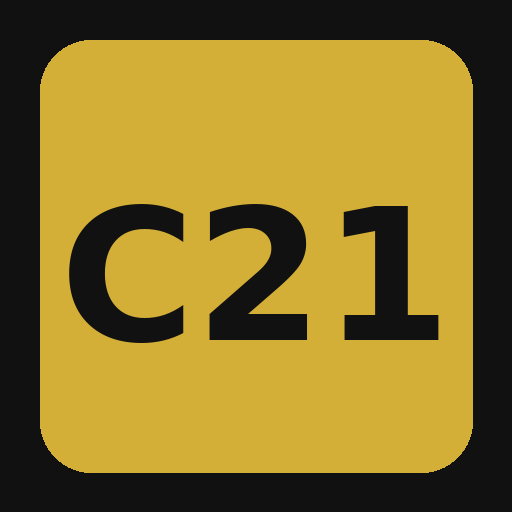
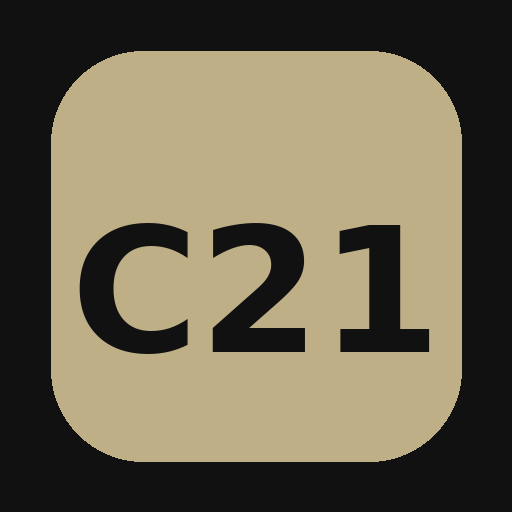
Add files via upload

diff --git a/index.html b/index.html
@@ -5,15 +5,15 @@
   <meta name="viewport" content="width=device-width, initial-scale=1" />
   <title>Fredrik Grill — Century 21 Forever Homes</title>
   <meta name="theme-color" content="#111111" />
-  <link rel="manifest" href="./manifest.webmanifest">
-  <link rel="apple-touch-icon" href="./icon-192.png" />
   <meta name="apple-mobile-web-app-capable" content="yes">
   <meta name="apple-mobile-web-app-status-bar-style" content="black-translucent">
+  <link rel="manifest" href="./manifest.webmanifest">
+  <link rel="apple-touch-icon" href="./apple-touch-icon.png" />
   <style>
     :root {
       --bg: #0e0e0e;
       --card: #1a1a1a;
-      --gold: #d4af37;
+      --gold: #BEAF87;
       --text: #ffffff;
       --muted: #b3b3b3;
     }
@@ -107,6 +107,9 @@
     .footer {
       margin-top: 14px; color: #7d7d7d; font-size: 11px; text-align: center;
     }
+    .share-row {
+      display: grid; grid-template-columns: 1fr 1fr; gap: 8px; margin-top: 8px;
+    }
   </style>
 </head>
 <body>
@@ -131,7 +134,7 @@
       <a class="btn" href="tel:+351925898231">📞 Call +351 925 898 231</a>
       <div class="inline">
         <a class="btn secondary" href="mailto:f.grill@century21.pt">✉ Email</a>
-        <a class="btn secondary" href="https://wa.me/+351925898231">💬 WhatsApp</a>
+        <a class="btn secondary" href="https://wa.me/351925898231">💬 WhatsApp</a>
       </div>
       <a class="btn secondary" href="https://www.google.com/maps/search/?api=1&query=Estrada%20Do%20Farol%2084%2C%208400-505%2C%20Carvoeiro">📍 Estrada Do Farol 84, 8400-505, Carvoeiro</a>
       <a class="btn" href="https://forever-homes.century21.pt" target="_blank" rel="noopener">🌐 Visit Website</a>
@@ -139,9 +142,9 @@
         <a class="btn" href="./fredrik-grill.vcf" download>💾 Save Contact (.vcf)</a>
         <a class="btn" href="./fredrik-card.pdf" download>📄 Download PDF</a>
       </div>
-      <div class="inline">
-        <a class="btn secondary" href="sms:?&body=Fredrik Grill%20—%20Century%2021%20Forever%20Homes%0Ahttps://forever-homes.century21.pt%0A(Open%20my%20digital%20card%20via%20the%20link%20you%20received)">📱 Share via SMS</a>
-        <a class="btn secondary" href="https://api.whatsapp.com/send?text=Fredrik Grill%20—%20Century%2021%20Forever%20Homes%0Ahttps://forever-homes.century21.pt%0AOpen%20my%20digital%20card%20link%20I%20sent%20you." target="_blank">🔗 Share via WhatsApp</a>
+      <div class="share-row">
+        <a class="btn secondary" id="sms-share" href="sms:&body=Fredrik Grill%20—%20Century%2021%20Forever%20Homes%0Ahttps://forever-homes.century21.pt%0A(Open%20my%20digital%20card%20link%20I%20sent%20you)">📱 Share via SMS</a>
+        <button class="btn secondary" id="web-share" type="button">🔗 Share</button>
       </div>
     </section>
 
@@ -159,6 +162,23 @@
       window.addEventListener("load", () => {
         navigator.serviceWorker.register("./sw.js").catch(console.error);
       });
+    }
+    // Web Share API (native share sheet)
+    const shareBtn = document.getElementById("web-share");
+    if (shareBtn && navigator.share) {
+      shareBtn.addEventListener("click", async () => {
+        try {
+          await navigator.share({
+            title: "Fredrik Grill — Century 21 Forever Homes",
+            text: "My digital business card",
+            url: window.location.href
+          });
+        } catch(e) {
+          console.log(e);
+        }
+      });
+    } else if (shareBtn) {
+      shareBtn.style.display = "none";
     }
   </script>
 </body>

diff --git a/sw.js b/sw.js
@@ -1,35 +1,22 @@
-const CACHE_NAME = "c21-card-cache-v1";
+const CACHE_NAME = "c21-card-cache-v3";
 const URLS = [
   "./",
   "./index.html",
   "./manifest.webmanifest",
   "./icon-192.png",
   "./icon-512.png",
+  "./apple-touch-icon.png",
   "./fredrik-grill.vcf",
   "./fredrik-card.pdf"
 ];
-
 self.addEventListener("install", (event) => {
-  event.waitUntil(
-    caches.open(CACHE_NAME).then((cache) => cache.addAll(URLS))
-  );
+  event.waitUntil(caches.open(CACHE_NAME).then((cache) => cache.addAll(URLS)));
 });
-
 self.addEventListener("activate", (event) => {
   event.waitUntil(
-    caches.keys().then((keys) =>
-      Promise.all(keys.filter(k => k !== CACHE_NAME).map(k => caches.delete(k)))
-    )
+    caches.keys().then((keys) => Promise.all(keys.filter(k => k !== CACHE_NAME).map(k => caches.delete(k))))
   );
 });
-
 self.addEventListener("fetch", (event) => {
-  event.respondWith(
-    caches.match(event.request).then((resp) => {
-      return resp || fetch(event.request).then((response) => {
-        // Optionally add new responses to cache
-        return response;
-      });
-    })
-  );
+  event.respondWith(caches.match(event.request).then((resp) => resp || fetch(event.request)));
 });
